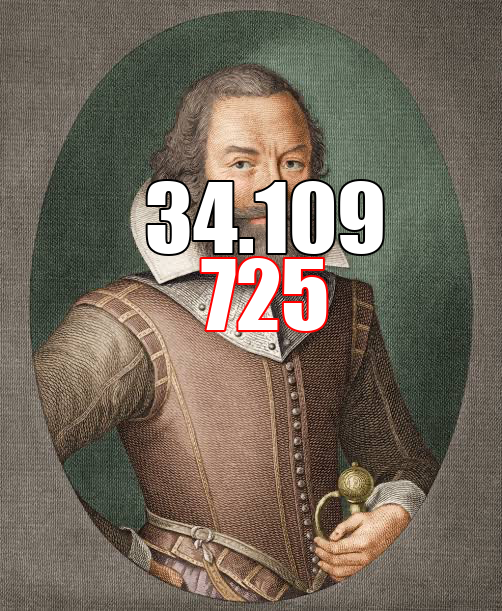
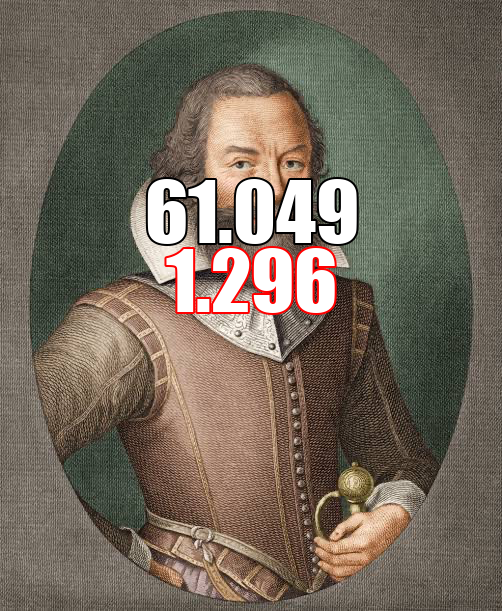
profile img update

Changed region(s): [[0.2689, 0.2799, 0.7769, 0.5597]]

diff --git a/update_profile_img.py b/update_profile_img.py
@@ -11,7 +11,7 @@ data = covid_check.daily_data()
 text1 = re.sub(r'(?<!^)(?=(\d{3})+$)', r'.',data['conf_total'])
 text2 = re.sub(r'(?<!^)(?=(\d{3})+$)', r'.',data['deaths_total'])
 
-fontsize = 90
+fontsize = 80
 fillcolor1 = "white"
 shadowcolor1 = "black"
 fillcolor2 = "white"
@@ -42,7 +42,7 @@ draw.text((x, y), text1, font=font, fill=fillcolor1, stroke_fill=shadowcolor1, s
 draw.text((x2, y2), text2, font=font, fill=fillcolor2, stroke_fill=shadowcolor2, stroke_width=2)
 
 #prepare for cropping
-left = 135
+left = 125
 top = 110
 w = 260
 
